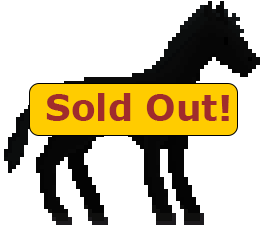
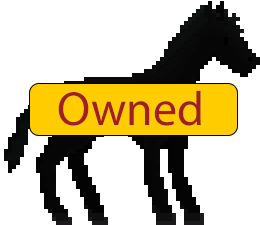
sync new pets to store and caravan page

Changed region(s): [[0.1538, 0.4044, 0.8923, 0.56]]

diff --git a/lib/games/caravan_game.dart b/lib/games/caravan_game.dart
@@ -32,6 +32,7 @@ class CaravanGame extends FlameGame with
   int worldBound = 300;
 
   bool placeholderEquips = true;
+  bool petEquipped = false;
   List<String> equippedHorses = List.from(ItemDetails.startingHorses);
   List<String> equippedCarts = List.from(ItemDetails.startingCarts);
   List<String> equippedPets = List.from(ItemDetails.startingPets);
@@ -41,6 +42,90 @@ class CaravanGame extends FlameGame with
 
   int backgroundSteps = 0;
   late ParallaxComponent<FlameGame> parallaxComponent;
+
+  Map<String, Map<String, dynamic>> pets = {
+    "cat-white": {
+      "key": "cat-white",
+      "spriteSize": Vector2(32,32),
+      "animationCount": 4,
+      "filename": "items/cat-white-animation.png",
+      "position": Vector2(420, 300),
+      "size": Vector2(40, 40),
+      "stepTime": 0.3,
+    },
+    "cat-black": {
+      "key": "cat-black",
+      "spriteSize": Vector2(32,32),
+      "animationCount": 4,
+      "filename": "items/cat-black-animation.png",
+      "position": Vector2(120, 280),
+      "size": Vector2(40, 40),
+      "stepTime": 0.3,
+    },
+    "cat-orange": {
+      "key": "cat-orange",
+      "spriteSize": Vector2(32,32),
+      "animationCount": 4,
+      "filename": "items/cat-orange-animation.png",
+      "position": Vector2(270, 280),
+      "size": Vector2(40, 40),
+      "stepTime": 0.3,
+    },
+    "dog-brown": {
+      "key": "dog-brown",
+      "spriteSize": Vector2(32,32),
+      "animationCount": 4,
+      "filename": "items/dog-brown-animation.png",
+      "position": Vector2(320, 280),
+      "size": Vector2(80, 80),
+      "stepTime": 0.3,
+    },
+    "dog-yellow": {
+      "key": "dog-yellow",
+      "spriteSize": Vector2(32,32),
+      "animationCount": 4,
+      "filename": "items/dog-yellow-animation.png",
+      "position": Vector2(200, 280),
+      "size": Vector2(80, 80),
+      "stepTime": 0.3,
+    },
+    "dog-white": {
+      "key": "dog-white",
+      "spriteSize": Vector2(32,32),
+      "animationCount": 4,
+      "filename": "items/dog-white-animation.png",
+      "position": Vector2(170, 250),
+      "size": Vector2(60, 60),
+      "stepTime": 0.3,
+    },
+    "bird-pink": {
+      "key": "bird-pink",
+      "spriteSize": Vector2(32,32),
+      "animationCount": 10,
+      "filename": "items/bird-pink-animation.png",
+      "position": Vector2(280, 60),
+      "size": Vector2(60, 60),
+      "stepTime": 0.1,
+    },
+    "bird-blue": {
+      "key": "bird-blue",
+      "spriteSize": Vector2(32,32),
+      "animationCount": 10,
+      "filename": "items/bird-blue-animation.png",
+      "position": Vector2(390, 80),
+      "size": Vector2(60, 60),
+      "stepTime": 0.12,
+    },
+    "dragon": {
+      "key": "dragon",
+      "spriteSize": Vector2(64,64),
+      "animationCount": 10,
+      "filename": "items/dragon-animation.png",
+      "position": Vector2(140, 40),
+      "size": Vector2(100, 100),
+      "stepTime": 0.1,
+    }
+  };
 
   void renderEquipped() async {
     if (equippedHorses.isNotEmpty) {
@@ -84,13 +169,50 @@ class CaravanGame extends FlameGame with
         stepTime: 0.2,
       );
       currentActors[ItemDetails.cartKey] = SpriteAnimationComponent.fromFrameData(
-        loadedImages[equippedCarts[0]]!,
-        cartSpriteData,
+          loadedImages[equippedCarts[0]]!,
+          cartSpriteData,
           size: Vector2(80, 106),
           position: Vector2(240, 175)
       );
 
       add(currentActors[ItemDetails.cartKey]!);
+
+    }
+
+    // add all equipped pets to the screen
+    if (equippedPets.isNotEmpty) {
+      for (String pet in equippedPets) {
+        // If the pet is current displayed on screen then skip
+        if (currentActors.containsKey(pet)) {
+          continue;
+        }
+        Map<String, dynamic> petDetails = pets[pet]!;
+        final petSpriteSize = petDetails["spriteSize"];
+        final petSpriteData = SpriteAnimationData.sequenced(
+          textureSize: petSpriteSize,
+          amount: petDetails["animationCount"],
+          amountPerRow: petDetails["animationCount"],
+          stepTime: petDetails["stepTime"],
+        );
+        currentActors[petDetails["key"]] = SpriteAnimationComponent.fromFrameData(
+            await images.load(petDetails["filename"]),
+            petSpriteData,
+            size: petDetails["size"],
+            position: petDetails["position"]
+        );
+        petEquipped = true;
+        add(currentActors[petDetails["key"]]!);
+      }
+    }
+
+    // If data has been reset, remove all equipped pets
+    if (petEquipped && equippedPets.isEmpty) {
+      for (Map<String, dynamic> pet in pets.values) {
+        if (currentActors.containsKey(pet["key"])) {
+          remove(currentActors[pet["key"]]!);
+          currentActors.remove(pet["key"]);
+        }
+      }
     }
   }
 
@@ -101,8 +223,8 @@ class CaravanGame extends FlameGame with
     Flame.device.fullScreen();
 
     camera.followVector2(
-        cameraPosition,
-        relativeOffset: Anchor.topLeft,
+      cameraPosition,
+      relativeOffset: Anchor.topLeft,
     );
     camera.speed = 100;
 
@@ -154,8 +276,8 @@ class CaravanGame extends FlameGame with
       stepTime: 0.5,
     );
     final mainCharacter = SpriteAnimationComponent.fromFrameData(
-      await images.load("General/MainCharacterFinal-animation.png"),
-      charSpriteData,
+        await images.load("General/MainCharacterFinal-animation.png"),
+        charSpriteData,
         size: Vector2(60, 60),
         position: Vector2(420, 220)
     );

diff --git a/lib/model/items_details.dart b/lib/model/items_details.dart
@@ -196,6 +196,87 @@ class ItemDetails{
       "purchaseCurrency": gems,
       "location": "assets/images/items/cart-green.png",
       "description": "Best cart money can buy!",
+    },
+    "cat-white": {
+      "key": "cat-white",
+      "name": "White Cat",
+      "type": petKey,
+      "cost": 200,
+      "purchaseCurrency": coins,
+      "location": "assets/images/items/cat-white.png",
+      "description": "A brand new pet for your caravan!",
+    },
+    "cat-black": {
+      "key": "cat-black",
+      "name": "Black Cat",
+      "type": petKey,
+      "cost": 200,
+      "purchaseCurrency": coins,
+      "location": "assets/images/items/cat-black.png",
+      "description": "A brand new pet for your caravan!",
+    },
+    "cat-orange": {
+      "key": "cat-orange",
+      "name": "Tabby Cat",
+      "type": petKey,
+      "cost": 400,
+      "purchaseCurrency": coins,
+      "location": "assets/images/items/cat-orange.png",
+      "description": "A brand new pet for your caravan!",
+    },
+    "dog-brown": {
+      "key": "dog-brown",
+      "name": "Brown Dog",
+      "type": petKey,
+      "cost": 200,
+      "purchaseCurrency": coins,
+      "location": "assets/images/items/dog-brown.png",
+      "description": "A brand new pet for your caravan!",
+    },
+    "dog-yellow": {
+      "key": "dog-yellow",
+      "name": "Yellow Dog",
+      "type": petKey,
+      "cost": 400,
+      "purchaseCurrency": coins,
+      "location": "assets/images/items/dog-yellow.png",
+      "description": "A brand new pet for your caravan!",
+    },
+    "dog-white": {
+      "key": "dog-white",
+      "name": "White Dog",
+      "type": petKey,
+      "cost": 200,
+      "purchaseCurrency": coins,
+      "location": "assets/images/items/dog-white.png",
+      "description": "A brand new pet for your caravan!",
+    },
+    "bird-pink": {
+      "key": "bird-pink",
+      "name": "Pink Cockatoo",
+      "type": petKey,
+      "cost": 1000,
+      "purchaseCurrency": coins,
+      "location": "assets/images/items/bird-pink.png",
+      "description": "A brand new pet for your caravan!",
+    },
+    "bird-blue": {
+      "key": "bird-blue",
+      "name": "Blue Macaw",
+      "type": petKey,
+      "cost": 1000,
+      "purchaseCurrency": coins,
+      "location": "assets/images/items/bird-blue.png",
+      "description": "A brand new pet for your caravan!",
+    },
+    "dragon": {
+      "key": "dragon",
+      "name": "Purple Dragon",
+      "type": petKey,
+      "cost": 500,
+      "purchaseCurrency": gems,
+      "location": "assets/images/items/dragon.png",
+      "description": "A dragon!!!",
     }
   };
 }

diff --git a/lib/model/shop/shop_items.dart b/lib/model/shop/shop_items.dart
@@ -22,7 +22,7 @@ class ShopItems{
     ItemDetails.petKey: {
       "name": "Sold Out!",
       "type": ItemDetails.petKey,
-      "location": "assets/images/shop/horse-sold-out.png",
+      "location": "assets/images/shop/pet-sold-out.png",
     },
   };
 
@@ -51,15 +51,15 @@ class ShopItems{
       ItemDetails.items["cart-red"] ?? shopSoldOutVisual[ItemDetails.cartKey]!,
     ],
     ItemDetails.petKey: [
-      ItemDetails.items["horse-pink"] ?? shopSoldOutVisual[ItemDetails.horseKey]!,
-      ItemDetails.items["horse-light-grey"] ?? shopSoldOutVisual[ItemDetails.horseKey]!,
-      ItemDetails.items["horse-dark-grey"] ?? shopSoldOutVisual[ItemDetails.horseKey]!,
-      ItemDetails.items["horse-dark-green"] ?? shopSoldOutVisual[ItemDetails.horseKey]!,
-      ItemDetails.items["horse-dark-blue"] ?? shopSoldOutVisual[ItemDetails.horseKey]!,
-      ItemDetails.items["horse-purple"] ?? shopSoldOutVisual[ItemDetails.horseKey]!,
-      ItemDetails.items["horse-yellow"] ?? shopSoldOutVisual[ItemDetails.horseKey]!,
-      ItemDetails.items["horse-light-green"] ?? shopSoldOutVisual[ItemDetails.horseKey]!,
-      ItemDetails.items["horse-blue"] ?? shopSoldOutVisual[ItemDetails.horseKey]!,
+      ItemDetails.items["cat-black"] ?? shopSoldOutVisual[ItemDetails.petKey]!,
+      ItemDetails.items["cat-white"] ?? shopSoldOutVisual[ItemDetails.petKey]!,
+      ItemDetails.items["cat-orange"] ?? shopSoldOutVisual[ItemDetails.petKey]!,
+      ItemDetails.items["dog-brown"] ?? shopSoldOutVisual[ItemDetails.petKey]!,
+      ItemDetails.items["dog-white"] ?? shopSoldOutVisual[ItemDetails.petKey]!,
+      ItemDetails.items["dog-yellow"] ?? shopSoldOutVisual[ItemDetails.petKey]!,
+      ItemDetails.items["bird-pink"] ?? shopSoldOutVisual[ItemDetails.petKey]!,
+      ItemDetails.items["bird-blue"] ?? shopSoldOutVisual[ItemDetails.petKey]!,
+      ItemDetails.items["dragon"] ?? shopSoldOutVisual[ItemDetails.petKey]!,
     ],
   };
 

diff --git a/lib/views/shop/shop_view.dart b/lib/views/shop/shop_view.dart
@@ -109,18 +109,16 @@ class _ShopState extends State<ShopView> {
       if (x > coordBounds[x1] && x < coordBounds[x2] &&
           y > coordBounds[y1] && y < coordBounds[y2]) {
         print("Shop tab $type selected!");
-        if (type == ItemDetails.petKey) {
-          ComingSoonPage.showPage(context, "Pets shop coming soon!");
-        } else {
-          // Setup the items for the new shop type
-          shop!.activeShop = type;
-          itemShowing = {};
-          showItemDescription = false;
-          setState(() {
-            topRightPanelImage = shopKeeperImage;
-            shop!.setUpItems();
-          });
-        }
+
+        // Setup the items for the new shop type
+        shop!.activeShop = type;
+        itemShowing = {};
+        showItemDescription = false;
+        setState(() {
+          topRightPanelImage = shopKeeperImage;
+          shop!.setUpItems();
+        });
+
       }
     }
   }

diff --git a/lib/model/save_model.dart b/lib/model/save_model.dart
@@ -73,6 +73,18 @@ class SaveModel extends ChangeNotifier {
     notifyListeners();
   }
 
+  // Equips a pet
+  void equipPet(int petNum, String key) {
+    if (save.state[SaveKeysV1.equippedPets] == null) {
+      save.state[SaveKeysV1.equippedPets] = <String>[];
+    }
+
+    save.state[SaveKeysV1.equippedPets].add(key);
+
+    hasUpdatedEquipped = true;
+    notifyListeners();
+  }
+
   void addItem(Map<String, dynamic> item) {
     if (save.state[item["type"]] == null) {
       save.state[item["type"]] = <String>[];

diff --git a/lib/model/shop/shop.dart b/lib/model/shop/shop.dart
@@ -76,6 +76,9 @@ class Shop {
     if (item["type"] == SaveKeysV1.carts) {
       save.equipCart(1, item["key"]);
     }
+    if (item["type"] == SaveKeysV1.pets) {
+      save.equipPet(1, item["key"]);
+    }
 
     // The item was purchased
     return true;
